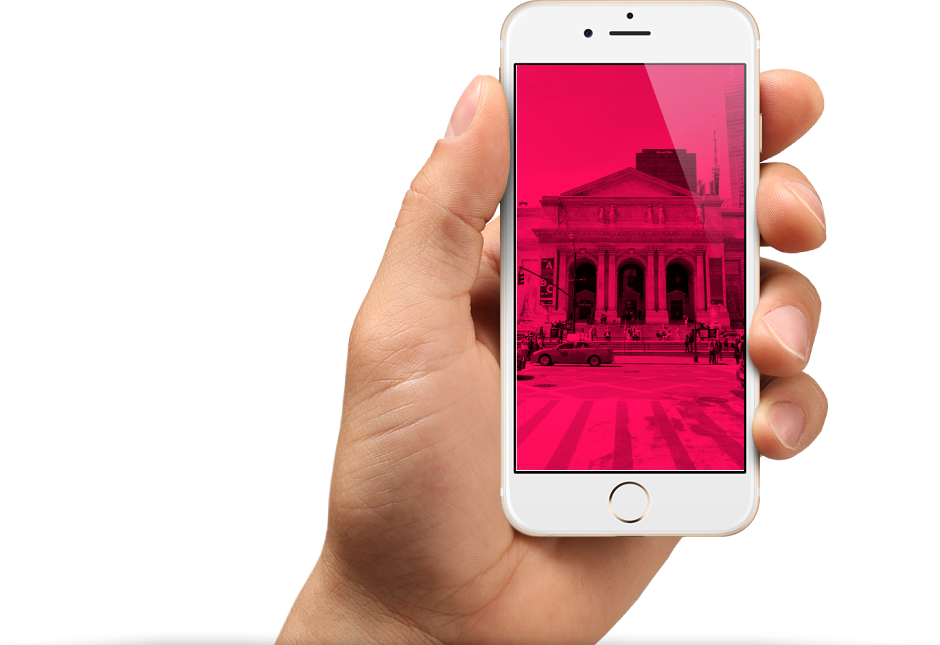
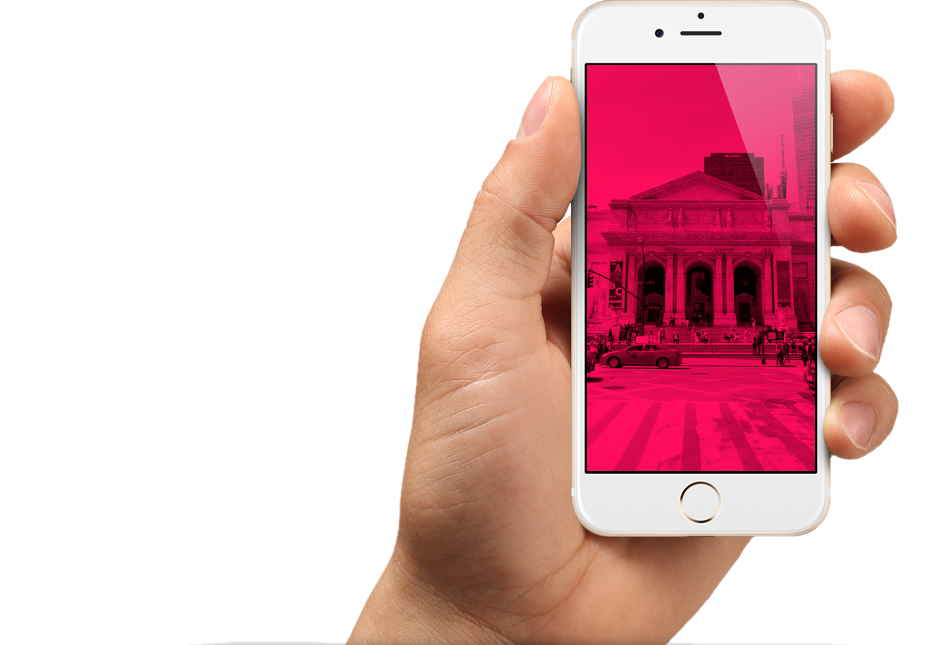
30.01(2)

diff --git a/source/sass/blocks/page-header.scss b/source/sass/blocks/page-header.scss
@@ -221,7 +221,7 @@
 @media (min-width: $tablet-width) {
   .page-header {
     background:
-      url("../img/phone-tablet.png") no-repeat bottom right,
+      url("../img/phone-tablet.png") no-repeat bottom center,
       url("../img/back-tablet.jpg") no-repeat center / cover;
 
     @media (min-resolution: 2dppx) {
@@ -262,13 +262,13 @@
 @media (min-width: $desktop-width) {
   .page-header {
     background:
-      url("../img/phone-desktop.png") no-repeat bottom right 60px,
+      url("../img/phone-desktop.png") no-repeat bottom center,
       url("../img/back-desktop.jpg") no-repeat center / cover;
 
     @media (min-resolution: 2dppx) {
       background-image: url("../img/phone-desktop@2x.png"), url("../img/back-desktop@2x.jpg");
       background-size: 924px 645px, 2560px 853px;
-      background-position: bottom right 66px, center;
+      background-position: bottom center, center;
     }
   }
 

diff --git a/source/index.html b/source/index.html
@@ -8,7 +8,7 @@
 </head>
 <body class="page-body">
 
-  <!-- <style>
+  <style>
     html {
       background-image: url("index-mobile.png");
       background-position: center top;
@@ -30,7 +30,7 @@
     body {
       opacity: 0.5;
     }
-    </style> -->
+    </style>
 
   <header class="page-header">
     <div class="page-header__wrapper page-header__menu page-header__menu--closed">
